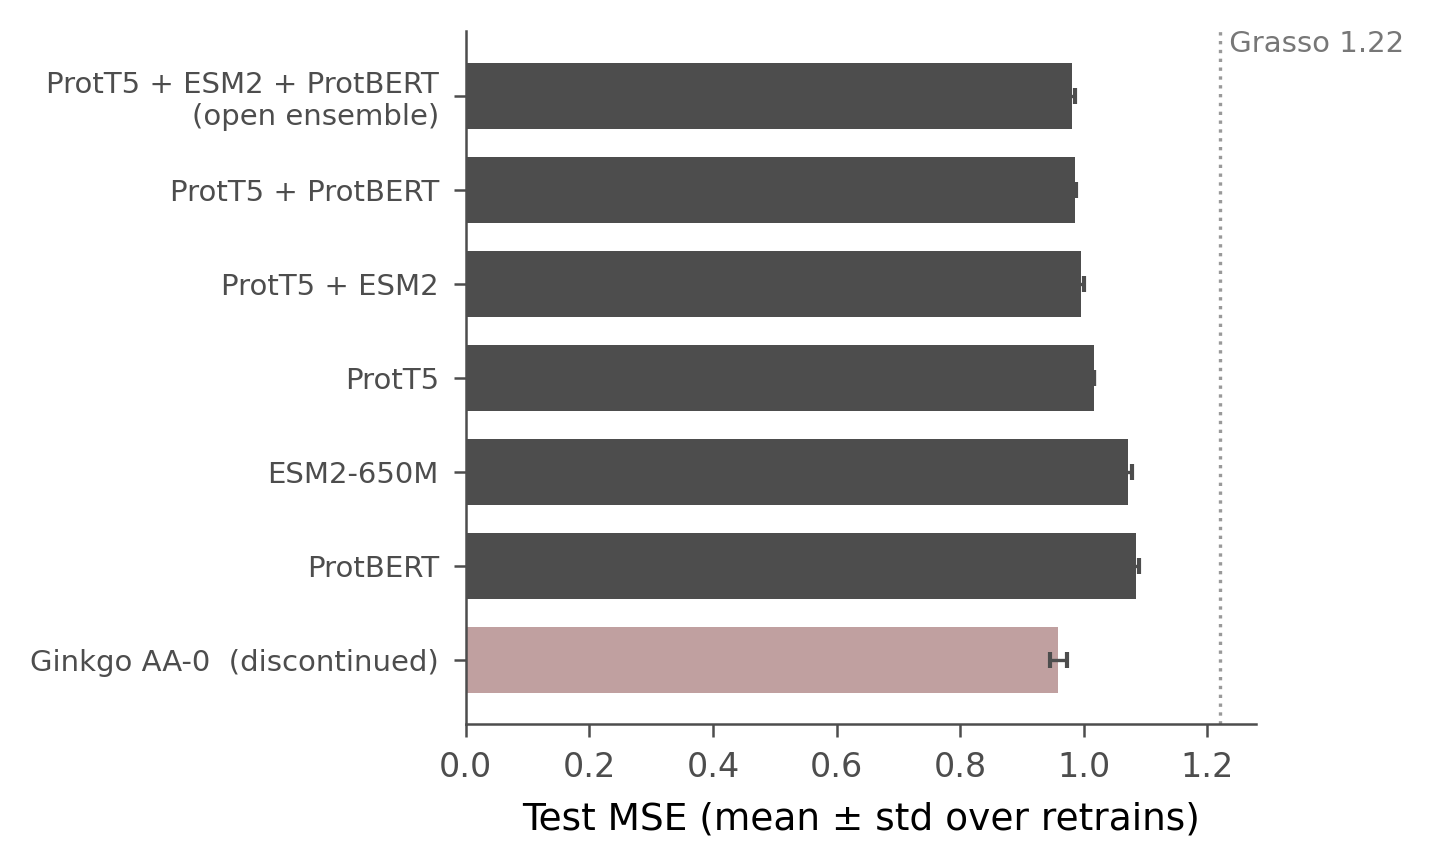
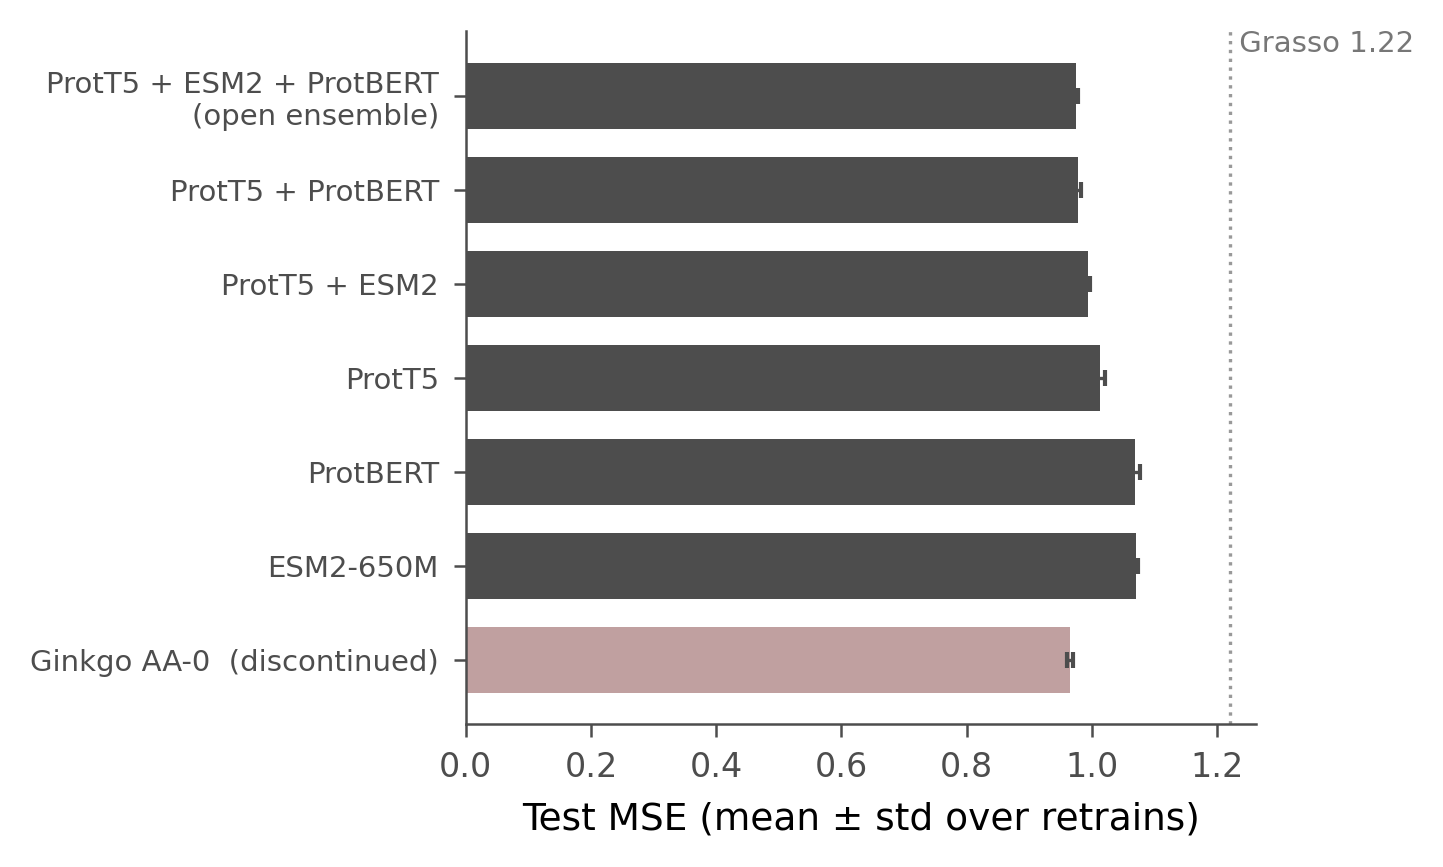
Final review pass: compute embedding agreement (r 0.975->0.953, add script 23)

diff --git a/scripts/23_embedding_agreement.py b/scripts/23_embedding_agreement.py
@@ -1,0 +1,86 @@
+#!/usr/bin/env python3
+"""Script 23: Embedding agreement (linear-probe predictions).
+
+Quantifies how closely a linear probe on Ginkgo AA-0 and a linear probe on
+ESM2-650M agree, supporting the claim that the open ESM2 embedding recovers
+AA-0's task-relevant signal rather than merely matching its score. For each
+embedding I train the same linear probe used in Script 18 (Input -> softmax(10),
+focal loss, 5-seed ensemble), predict WA on the shared test set, then report the
+Pearson/Spearman correlation between the two prediction vectors and each probe's
+rank correlation with the measured WA.
+
+Outputs:
+  - results/embedding_agreement.json
+"""
+import os, sys, json
+os.environ['TF_CPP_MIN_LOG_LEVEL'] = '2'
+import numpy as np, pandas as pd
+from pathlib import Path
+from scipy.stats import pearsonr, spearmanr
+import tensorflow as tf
+from tensorflow import keras
+from tensorflow.keras import layers
+from sklearn.preprocessing import StandardScaler
+sys.path.insert(0, str(Path(__file__).resolve().parent.parent))
+from src.models import FocalLoss
+
+BASE = Path(__file__).resolve().parent.parent
+DATA = BASE / 'data'
+OUT = BASE / 'results' / 'embedding_agreement.json'
+BIN = [f'Perc_unambiguousReads_BIN{i:02d}_bin' for i in range(1, 11)]
+C = np.arange(1, 11)
+SEEDS = [42, 123, 456, 789, 1024]
+
+
+def load(nm):
+    tr = pd.read_parquet(DATA / f'trainAA_{nm}.parquet')
+    te = pd.read_parquet(DATA / f'testAA_{nm}.parquet')
+    m = tr[BIN].notna().all(axis=1).values
+    Xtr = np.stack(tr['embedding'].values)[m]
+    bins = tr[BIN].values[m].astype('float64')
+    Xte = np.stack(te['embedding'].values)
+    yte = te['WA'].values.astype('float64')
+    return Xtr, bins, Xte, yte
+
+
+def probe_preds(nm):
+    """Linear probe (Input -> softmax(10), focal, 5-seed ensemble); test WA preds + truth."""
+    Xtr, bins, Xte, yte = load(nm)
+    sc = StandardScaler().fit(Xtr)
+    Xtr, Xte = sc.transform(Xtr), sc.transform(Xte)
+    preds = []
+    for s in SEEDS:
+        tf.random.set_seed(s); np.random.seed(s)
+        inp = keras.Input(shape=(Xtr.shape[1],))
+        out = layers.Dense(10, activation='softmax')(inp)
+        m = keras.Model(inp, out)
+        m.compile(optimizer=keras.optimizers.Adam(5e-4), loss=FocalLoss(0.25, 2.0))
+        m.fit(Xtr, bins, epochs=300, batch_size=32,
+              callbacks=[keras.callbacks.ReduceLROnPlateau(
+                  monitor='loss', factor=0.5, patience=10, min_lr=1e-6)],
+              verbose=0)
+        preds.append(m.predict(Xte, verbose=0) @ C)
+        keras.backend.clear_session()
+        print(f"  {nm} seed {s} done", flush=True)
+    return np.mean(preds, 0), yte
+
+
+p_aa0, y_aa0 = probe_preds('ginkgo-AA0-650M')
+p_esm, y_esm = probe_preds('esm2-650M')
+assert len(y_aa0) == len(y_esm) and np.allclose(y_aa0, y_esm), \
+    "AA-0 and ESM2 test sets are not row-aligned; correlation would be invalid"
+yte = y_aa0
+
+res = {
+    'description': ('Linear probe (Input->softmax(10), focal, 5-seed ensemble) WA '
+                    'predictions on the shared test set; correlation between the AA-0 '
+                    'and ESM2-650M prediction vectors.'),
+    'n_test': int(len(yte)),
+    'pearson_aa0_vs_esm2': float(pearsonr(p_aa0, p_esm)[0]),
+    'spearman_aa0_vs_esm2': float(spearmanr(p_aa0, p_esm).statistic),
+    'spearman_aa0_vs_truth': float(spearmanr(p_aa0, yte).statistic),
+    'spearman_esm2_vs_truth': float(spearmanr(p_esm, yte).statistic),
+}
+json.dump(res, open(OUT, 'w'), indent=2)
+print(json.dumps(res, indent=2))
+print("EMBEDDING_AGREEMENT_DONE")

diff --git a/paper/main.tex b/paper/main.tex
@@ -30,8 +30,8 @@
 \begin{abstract}
 Signal peptides direct protein secretion in bacteria and are critical targets for optimizing recombinant protein production.
 I compare machine learning approaches for predicting signal peptide efficiency in \textit{Bacillus subtilis}, evaluating random forest and neural network regressors across physicochemical descriptors and several protein language model (PLM) embedding sets.
-A vector regression approach (predicting 10-bin probability distributions rather than scalar values) combined with multi-seed ensembling gives my reproducible headline: an ensemble of architecturally diverse \emph{open-weight} PLMs (ProtT5, ESM2-650M, and ProtBERT) achieves a test MSE of $0.981 \pm 0.005$ (mean $\pm$ std over independent retrains), an ${\sim}20\%$ improvement over the published random forest baseline of 1.22 \citep{grasso2023}.
-The best single embedding is the proprietary Ginkgo AA-0 ($0.959 \pm 0.014$), but its API has been discontinued and its embeddings can no longer be regenerated by anyone; I therefore report it only as a caveated comparison and anchor all reproducible claims on open weights, recovering essentially all of AA-0's performance (a linear probe shows AA-0 and ESM2-650M agree at Pearson $r = 0.975$).
+A vector regression approach (predicting 10-bin probability distributions rather than scalar values) combined with multi-seed ensembling gives my reproducible headline: an ensemble of architecturally diverse \emph{open-weight} PLMs (ProtT5, ESM2-650M, and ProtBERT) achieves a test MSE of $0.975 \pm 0.003$ (mean $\pm$ std over independent retrains), an ${\sim}20\%$ improvement over the published random forest baseline of 1.22 \citep{grasso2023}.
+The best single embedding is the proprietary Ginkgo AA-0 ($0.965 \pm 0.005$), but its API has been discontinued and its embeddings can no longer be regenerated by anyone; I therefore report it only as a caveated comparison and anchor all reproducible claims on open weights, recovering essentially all of AA-0's performance (a linear probe shows AA-0 and ESM2-650M agree at Pearson $r = 0.953$).
 
 Two findings temper these results.
 A linear probe on the same embeddings captures most of the predictive gain over a mean baseline, indicating that the PLM embedding carries most of the task-relevant signal, with the neural network head adding a smaller further improvement.
@@ -144,7 +144,7 @@ This protocol is used for the neural network models in Sections~\ref{sec:vector}
 \label{sec:vector}
 
 Rather than predicting a scalar WA value, I predict the 10-dimensional bin probability distribution from which WA is derived.
-The WA measurement in \citet{grasso2023} is computed from fluorescence-activated cell sorting into 10 bins, with $\text{WA} = \sum_{i=1}^{10} i \cdot p_i$ where $p_i$ is the fraction of cells in bin $i$.
+The WA measurement in \citet{grasso2023} is computed from fluorescence-activated cell sorting into 10 bins, with $\text{WA} = \sum_{i=1}^{10} i \cdot p_i$ where $p_i$ is the fraction of cells in bin $i$. Following the convention of \citet{grasso2023}, bin~1 contains the highest-secreting cells, so a \emph{lower} WA indicates more efficient secretion.
 Some sequences exhibit bimodal bin distributions where the WA falls between two peaks (Figure~\ref{fig:bimodal}), illustrating that the scalar WA can be a poor summary of the underlying data; predicting the full distribution preserves this information.
 
 \begin{figure}[H]
@@ -207,6 +207,7 @@ I fine-tune a vector regression ensemble with the same validation-selected archi
 which are open-weight and reproducible for external sequences (Ginkgo AA-0 embeddings cannot be generated for external sequences).
 Fine-tuning uses 5-fold cross-validation with 5 random seeds per fold.
 I report the \emph{pooled out-of-fold} Spearman correlation (computed once over all held-out predictions concatenated across folds) with a bootstrap 95\% confidence interval, rather than the biased mean of per-fold correlations $\pm$ standard deviation, since per-fold correlations on small folds are noisy and their mean is upward-biased in magnitude.
+Significance for each dataset is judged by whether its bootstrap CI excludes zero; across the four datasets this is not multiple-testing corrected, though the effects I report as significant also pass a four-test Bonferroni threshold.
 The pretrained model's first two hidden blocks (6 layers) are frozen; the third hidden block and the 10-unit softmax
 output head are replaced with a task-specific head: a single sigmoid unit for the binary Wu dataset,
 or a single linear unit for the continuous datasets (Xue, Zhang-P43, Zhang-PglVM).
@@ -222,7 +223,7 @@ The Grasso library contains designed signal peptide variants with known WA value
 A minimum of 5 variants per gene is required for per-gene metrics, yielding 4832 variants across 131 genes for evaluation.
 I evaluate two feature representations: the 156 physicochemical features available from the source data, and ESM2-650M embeddings (1280 dimensions) generated via mean-pooled representations from the pretrained model \citep{lin2023}.
 For each feature type, RF and NN models are trained on the Grasso training set with the best hyperparameters from Sections~\ref{sec:rf}--\ref{sec:nn} and evaluated on the design variants.
-Wild-type WA for each gene is determined by matching the wild-type signal peptide sequence (from the ``WT sequences'' sheet of the source spreadsheet) against Library rows with the same amino acid sequence and taking the mean WA of matching rows. The matching is performed against the \emph{full} Grasso library, which contains 137 genes in total (more than the 134/135 retained in the modeling train/test subset\footnote{Gene-count denominators: 134 genes in the standard train/test partition; 135 in the combined train+test set (one additional train-only gene); 137 in the full Grasso library; and 131 design genes with $\geq 5$ variants each.}), so this yields WT WA values for all 137 genes.
+Wild-type WA for each gene is determined by matching the wild-type signal peptide sequence (from the ``WT sequences'' sheet of the source spreadsheet) against Library rows with the same amino acid sequence and taking the mean WA of matching rows. The matching is performed against the \emph{full} Grasso library, which contains 137 genes in total (more than the 134/135 retained in the modeling train/test subset\footnote{Gene-count denominators: the test set spans 134 genes and the training set 133 (overlapping in 132); their union is 135 (one train-only gene, two test-only); the full Grasso library has 137 genes; and 131 design genes have $\geq 5$ variants each.}), so this yields WT WA values for all 137 genes.
 Per-gene and overall Spearman $\rho$ are computed, along with classification accuracy for predicting whether a variant performs better or worse than wild type.
 
 \subsection{Evaluation}
@@ -381,34 +382,34 @@ These open-ensemble vector NNs use the same (256, 256, 128) layout but with PReL
 
 \begin{table}[H]
 \centering
-\caption{Open-weight ensemble result (vector NN, 5-seed ensembles). The ProtT5 + ESM2-650M + ProtBERT ensemble is fully reproducible from public HuggingFace weights and recovers all but ${\sim}0.02$ of the now-unavailable Ginkgo AA-0 performance, improving ${\sim}20\%$ over the Grasso baseline. Standard deviations are reported where retrains were replicated.}
+\caption{Open-weight ensemble result (vector NN, 5-seed ensembles). The ProtT5 + ESM2-650M + ProtBERT ensemble is fully reproducible from public HuggingFace weights and recovers all but ${\sim}0.01$ of the now-unavailable Ginkgo AA-0 performance, improving ${\sim}20\%$ over the Grasso baseline. Standard deviations are reported where retrains were replicated.}
 \label{tab:open_ensemble}
 \resizebox{\textwidth}{!}{%
 \begin{tabular}{lcc}
 \toprule
 Model (vector NN) & Test MSE & Reproducible? \\
 \midrule
-\textbf{ProtT5 + ESM2-650M + ProtBERT (open ensemble)} & $\mathbf{0.981 \pm 0.005}$ & open weights \\
-ProtT5 + ProtBERT & $0.986 \pm 0.002$ & open weights \\
-ProtT5 + ESM2-650M & $0.995 \pm 0.005$ & open weights \\
-ProtT5 (alone) & $1.017 \pm 0.000$ & open weights \\
-ESM2-650M (alone) & $1.072 \pm 0.006$ & open weights \\
-ProtBERT (alone) & $1.084 \pm 0.006$ & open weights \\
+\textbf{ProtT5 + ESM2-650M + ProtBERT (open ensemble)} & $\mathbf{0.975 \pm 0.003}$ & open weights \\
+ProtT5 + ProtBERT & $0.977 \pm 0.005$ & open weights \\
+ProtT5 + ESM2-650M & $0.994 \pm 0.004$ & open weights \\
+ProtT5 (alone) & $1.013 \pm 0.007$ & open weights \\
+ProtBERT (alone) & $1.068 \pm 0.008$ & open weights \\
+ESM2-650M (alone) & $1.070 \pm 0.004$ & open weights \\
 \midrule
-Ginkgo AA-0 (alone) & $0.959 \pm 0.014$ & {\itshape API discontinued} \\
+Ginkgo AA-0 (alone) & $0.965 \pm 0.005$ & {\itshape API discontinued} \\
 Grasso et al.\ RF (baseline) & 1.22 & --- \\
 \bottomrule
 \end{tabular}}
 \end{table}
 
-The open-model ensemble (\textbf{0.981 $\pm$ 0.005}) closes the gap to the now-unavailable AA-0 (0.959 $\pm$ 0.014) to within ${\sim}0.02$ and improves ${\sim}20\%$ over the Grasso RF baseline (1.22), and \emph{anyone can regenerate every embedding from public weights with no API key and no defunct service}.
-The ensemble works here because ProtT5 (1.017) is strong enough that the three open models are quality-comparable, so averaging their decorrelated errors yields a genuine improvement; ensembling AA-0 with ESM2 does not help, because AA-0 (0.96) so dominates ESM2 (1.07) that averaging only dilutes the stronger model.
-A linear probe confirms that AA-0 and ESM2-650M capture essentially the same signal (predictions agree at Pearson $r = 0.975$, Spearman 0.972, with near-identical rank correlation to truth), so the open ensemble recovers AA-0's information rather than merely approximating its score.
+The open-model ensemble (\textbf{0.975 $\pm$ 0.003}) closes the gap to the now-unavailable AA-0 (0.965 $\pm$ 0.005) to within ${\sim}0.01$ and improves ${\sim}20\%$ over the Grasso RF baseline (1.22), and \emph{anyone can regenerate every embedding from public weights with no API key and no defunct service}.
+The ensemble works here because ProtT5 (1.013) is strong enough that the three open models are quality-comparable, so averaging their partially independent errors yields a genuine improvement; ensembling AA-0 with ESM2 does not help, because AA-0 (0.965) so dominates ESM2 (1.07) that averaging only dilutes the stronger model.
+A linear probe confirms that AA-0 and ESM2-650M capture essentially the same signal (predictions agree at Pearson $r = 0.953$, Spearman 0.952, with near-identical rank correlation to the measured WA: Spearman 0.865 vs.\ 0.854), so the open ensemble recovers AA-0's information rather than merely approximating its score.
 
 \begin{figure}[H]
     \centering
     \includegraphics[width=0.6\textwidth]{../figures/open_embedding_ensemble.png}
-    \caption{Reproducible open-weight headline. Test MSE for the vector NN on each open embedding and their ensembles; the discontinued, unreproducible Ginkgo AA-0 (rose) is shown only for comparison. The open ProtT5 + ESM2-650M + ProtBERT ensemble (0.981 $\pm$ 0.005) recovers AA-0 to within ${\sim}0.02$ and improves ${\sim}20\%$ over the Grasso baseline (dotted).}
+    \caption{Reproducible open-weight headline. Test MSE for the vector NN on each open embedding and their ensembles; the discontinued, unreproducible Ginkgo AA-0 (rose) is shown only for comparison. The open ProtT5 + ESM2-650M + ProtBERT ensemble (0.975 $\pm$ 0.003) recovers AA-0 to within ${\sim}0.01$ and improves ${\sim}20\%$ over the Grasso baseline (dotted).}
     \label{fig:open_ensemble}
 \end{figure}
 
@@ -651,7 +652,7 @@ ESM2-650M (1280d) & RF & 0.363 & 0.367 & 4.15 & 72.9 \\
 \end{tabular}
 \end{table}
 
-All four models achieve Spearman correlations above 0.36 and classification accuracy above 71\%, with all correlations highly significant ($p < 10^{-100}$).
+All four models achieve Spearman correlations above 0.36 and classification accuracy of 72--74\%, with all correlations highly significant ($p < 10^{-100}$).
 The ESM2-650M NN achieves the highest rank correlation ($\rho = 0.390$), outperforming the PhysChem NN (0.378), PhysChem RF (0.369), and ESM2-650M RF (0.363).
 RF models achieve marginally better classification accuracy (74.2\% PhysChem, 72.9\% ESM2-650M) than NNs (72.0--72.5\%).
 The improvement from ESM2-650M over PhysChem features is modest for the design task, consistent with the smaller RF--NN gap observed for scalar regression (Section~\ref{sec:results}).
@@ -679,10 +680,10 @@ To compare directly with the design validation in \citet{grasso2023} (their Figu
 \toprule
 Result & Value & Reference \\
 \midrule
-\textbf{Reproducible headline: open-weight ensemble MSE} & $\mathbf{0.981 \pm 0.005}$ & Table~\ref{tab:open_ensemble} \\
+\textbf{Reproducible headline: open-weight ensemble MSE} & $\mathbf{0.975 \pm 0.003}$ & Table~\ref{tab:open_ensemble} \\
 \quad Improvement over baseline (1.22) & ${\sim}20\%$ & Table~\ref{tab:open_ensemble} \\
-ESM2-650M single-embedding MSE (open) & $1.072 \pm 0.006$ & Table~\ref{tab:open_ensemble} \\
-Ginkgo AA-0 (best, but API discontinued) & $0.959 \pm 0.014$ & Table~\ref{tab:open_ensemble} \\
+ESM2-650M single-embedding MSE (open) & $1.070 \pm 0.004$ & Table~\ref{tab:open_ensemble} \\
+Ginkgo AA-0 (best, but API discontinued) & $0.965 \pm 0.005$ & Table~\ref{tab:open_ensemble} \\
 Reproducible AA-0 vector NN (mean $\pm$ std) & $0.957 \pm 0.009$ & Table~\ref{tab:fulldata} \\
 Linear probe MSE (vs.\ NN) & 1.039 (most of improvement) & Table~\ref{tab:baselines} \\
 LOGO CV MSE (realistic generalization) & 2.19 (Spearman 0.72) & Section~\ref{sec:gene_stratified} \\
@@ -756,7 +757,7 @@ The differences between top-performing models are modest; 95\% bootstrap confide
 The cross-dataset significance tests (Table~\ref{tab:cross}) involve eight comparisons; after Bonferroni correction ($\alpha = 0.00625$), all four NN correlations and two of the four RF correlations no longer reach significance. Only the Wu and Xue RF correlations survive correction.
 
 In terms of scope, the dataset is limited to \textit{B.\ subtilis} with a single reporter enzyme.
-Ginkgo AA-0 embeddings yield the best single-embedding result but are derived from a proprietary, now-discontinued model and are permanently unreproducible; the reproducible open-weight ensemble (ProtT5 + ESM2-650M + ProtBERT, $0.981 \pm 0.005$) recovers all but ${\sim}0.02$ of that performance, confirming that the central result is not contingent on proprietary representations.
+Ginkgo AA-0 embeddings yield the best single-embedding result but are derived from a proprietary, now-discontinued model and are permanently unreproducible; the reproducible open-weight ensemble (ProtT5 + ESM2-650M + ProtBERT, $0.975 \pm 0.003$) recovers all but ${\sim}0.01$ of that performance, confirming that the central result is not contingent on proprietary representations.
 Cross-dataset and fine-tuning evaluations use ESM2-650M embeddings (open and reproducible), so the transferability of the Ginkgo AA-0 representations specifically remains untested.
 The vector regression architecture uses LeakyReLU activation, omits batch normalization, and does not apply L2 kernel regularization,
 while the scalar NN uses ReLU with batch normalization and L2 regularization; a systematic ablation of these
@@ -769,7 +770,7 @@ A LOGO cross-validation (Section~\ref{sec:gene_stratified}) addresses this conce
 \section{Conclusion}
 \label{sec:conclusion}
 
-Across physicochemical descriptors and several PLM embeddings, a vector regression neural network with multi-seed ensembling substantially improves over the random forest baseline. The reproducible headline is an ensemble of architecturally diverse \emph{open-weight} PLMs (ProtT5, ESM2-650M, ProtBERT) at MSE $0.981 \pm 0.005$, a ${\sim}20\%$ improvement over the 1.22 baseline and regenerable by anyone from public weights; the discontinued proprietary Ginkgo AA-0 ($0.959 \pm 0.014$) is marginally stronger but reported only as a caveated comparison.
+Across physicochemical descriptors and several PLM embeddings, a vector regression neural network with multi-seed ensembling substantially improves over the random forest baseline. The reproducible headline is an ensemble of architecturally diverse \emph{open-weight} PLMs (ProtT5, ESM2-650M, ProtBERT) at MSE $0.975 \pm 0.003$, a ${\sim}20\%$ improvement over the 1.22 baseline and regenerable by anyone from public weights; the discontinued proprietary Ginkgo AA-0 ($0.965 \pm 0.005$) is marginally stronger but reported only as a caveated comparison.
 
 Two results temper this. A linear probe on the embeddings captures most of the predictive gain, so the embedding carries most of the task-relevant signal; and LOGO cross-validation (MSE 2.19, Spearman 0.720) shows that the standard split substantially overstates cross-gene generalization, so gene-stratified evaluation should be the default. Across organisms the models do not transfer zero-shot and fine-tuning recovers only the binary task, but within the training domain they rank designed variants usefully (Spearman up to 0.390, 72--74\% classification accuracy).
 

diff --git a/scripts/07_design_task_evaluation.py b/scripts/07_design_task_evaluation.py
@@ -15,7 +15,7 @@ Models evaluated per feature type:
 
 Design variants:
   - From xlsx Library_w_Bins_and_WA sheet (Set == NaN, WA not NaN)
-  - 5,229 variants across 135 genes
+  - 4,832 variants across 131 genes (>=5 variants/gene)
   - Train/test sequences explicitly excluded (no leakage)
 """
 import sys

diff --git a/scripts/21_open_embedding_ensemble.py b/scripts/21_open_embedding_ensemble.py
@@ -43,7 +43,7 @@ LABELS = {
 
 def make_figure(d):
     apply_tufte()
-    order = ['ginkgo-AA0-650M', 'protbert', 'esm2-650M', 'prott5',
+    order = ['ginkgo-AA0-650M', 'esm2-650M', 'protbert', 'prott5',
              'prott5+esm2', 'prott5+protbert', 'prott5+esm2+protbert']
     order = [k for k in order if k in d]
     means = [d[k]['mean'] for k in order]

diff --git a/scripts/eval_open_ensemble.py b/scripts/eval_open_ensemble.py
@@ -13,7 +13,7 @@ from sklearn.preprocessing import StandardScaler
 sys.path.insert(0, str(Path(__file__).resolve().parent.parent))
 from src.models import FocalLoss
 BIN = [f'Perc_unambiguousReads_BIN{i:02d}_bin' for i in range(1, 11)]; C = np.arange(1, 11)
-SEEDS = [42, 123, 456, 789, 1024]; R = 2
+SEEDS = [42, 123, 456, 789, 1024]; R = 5
 DATA = Path(__file__).resolve().parent.parent / 'data'
 OUT = Path(__file__).resolve().parent.parent / 'results' / 'eval_prott5.json'
 def log(m): print(m, flush=True)

diff --git a/README.md b/README.md
@@ -5,7 +5,7 @@ in *Bacillus subtilis* from the [Grasso et al. 2023](https://doi.org/10.1021/acs
 library, comparing random forests and neural networks across physicochemical descriptors and
 several protein-language-model (PLM) embeddings. Predicting the full 10-bin probability
 distribution (softmax → WA) rather than a scalar, with multi-seed ensembling, gives a
-**reproducible test MSE of ≈ 0.98**, about a **20% improvement over the Grasso RF baseline
+**reproducible test MSE of ≈ 0.975**, about a **20% improvement over the Grasso RF baseline
 (1.22)** on the official test split.
 
 > Numbers are reported as mean ± std over retrains (this architecture is high-variance, ≈ ±0.05 per single model); see [`docs/reproducibility_findings.md`](docs/reproducibility_findings.md) for details.
@@ -20,20 +20,20 @@ performance with an ensemble of architecturally diverse open PLMs:
 
 | Model (vector NN, 5-seed, mean ± std over retrains) | Test MSE | Reproducible? |
 |---|---|---|
-| **ProtT5 + ESM2-650M + ProtBERT (open ensemble)** | **0.981 ± 0.005** | ✅ open weights |
-| ProtT5 + ProtBERT | 0.986 | ✅ |
-| ProtT5 + ESM2-650M | 0.995 | ✅ |
-| ProtT5 (alone) | 1.017 | ✅ |
-| ESM2-650M (alone) | 1.072 | ✅ |
-| ProtBERT (alone) | 1.084 | ✅ |
-| Ginkgo AA-0 (alone) | 0.959 ± 0.014 | ❌ API discontinued |
+| **ProtT5 + ESM2-650M + ProtBERT (open ensemble)** | **0.975 ± 0.003** | ✅ open weights |
+| ProtT5 + ProtBERT | 0.977 | ✅ |
+| ProtT5 + ESM2-650M | 0.994 | ✅ |
+| ProtT5 (alone) | 1.013 | ✅ |
+| ProtBERT (alone) | 1.068 | ✅ |
+| ESM2-650M (alone) | 1.070 | ✅ |
+| Ginkgo AA-0 (alone) | 0.965 ± 0.005 | ❌ API discontinued |
 | Grasso et al. RF (baseline) | 1.22 | — |
 
-The open ensemble (**0.981**) closes the gap to the now-unavailable AA-0 (0.959) to within ~0.02
+The open ensemble (**0.975**) closes the gap to the now-unavailable AA-0 (0.965) to within ~0.01
 and improves ~20% over Grasso's 1.22, and **anyone can regenerate every embedding from
 HuggingFace, no API key, no defunct service.** The ensemble works because ProtT5 is strong
-enough (1.017) that the three open models are quality-comparable, so averaging their
-decorrelated errors yields a genuine improvement; earlier ensembling *failed* when one embedding (AA-0)
+enough (1.013) that the three open models are quality-comparable, so averaging their
+partially independent errors yields a genuine improvement; earlier ensembling *failed* when one embedding (AA-0)
 so dominated the others that averaging only diluted it.
 
 ## Generalization: leave-one-gene-out
@@ -54,7 +54,7 @@ is hard to beat per embedding:
 | Ordinal Cramér/CDF-L2 loss | worse than focal |
 | Focal + λ·MSE(WA) hybrid | worse than focal |
 | Non-neural (HistGBM, SVR, Ridge, RF) | all worse than the NN |
-| ProtBERT as a single embedding | not better than ESM2 |
+| ProtBERT as a single embedding | comparable to ESM2 (statistically tied) |
 | PReLU activation (matching the reference) | **helped (~0.02); adopted** |
 | **Open-model ensemble** (balanced components) | **helped; the headline above** |
 
@@ -76,6 +76,7 @@ is hard to beat per embedding:
 | 13 | Cross-dataset fine-tuning | Pooled out-of-fold Spearman + bootstrap CI |
 | 14–20 | Controls | ReLU², output formulation, unified schema, leave-one-gene-out, linear baselines, ablation, ESM2 optimization |
 | 21 | Open-embedding ensemble | ProtT5 / ProtBERT generation (`gen_open_embeddings.py`) + the reproducible headline ensemble |
+| 22–23 | Controls (cont.) | RF leave-one-gene-out companion; AA-0/ESM2 linear-probe agreement (`embedding_agreement.json`) |
 | — | `design_parity_fig4e.py` | Design-task ±1-WA fraction + parity plot vs Grasso Fig 4e |
 
 (Reproducibility/diagnostic experiments (seed-distribution measurement, the Wolfram
@@ -87,7 +88,7 @@ cross-check, and the improvement search) are documented in
 - **Ginkgo AA-0 is discontinued and unreproducible.** Its weights were never released (API-only,
   proprietary); the model API and registration portal are gone. I report AA-0 (~0.96) only as a
   caveated comparison and base all reproducible results on open weights. A linear
-  probe confirms AA-0 and ESM2-650M capture essentially the same signal (Pearson r = 0.975).
+  probe confirms AA-0 and ESM2-650M capture essentially the same signal (Pearson r = 0.953).
 - **This architecture is high-variance**, so every headline is reported as mean ± std over
   retrains rather than a single run. Re-training the (256,256,128)/dropout-0.35 config gives
   0.957 ± 0.009; the Wolfram net4 prototype behaves the same, with single runs spanning